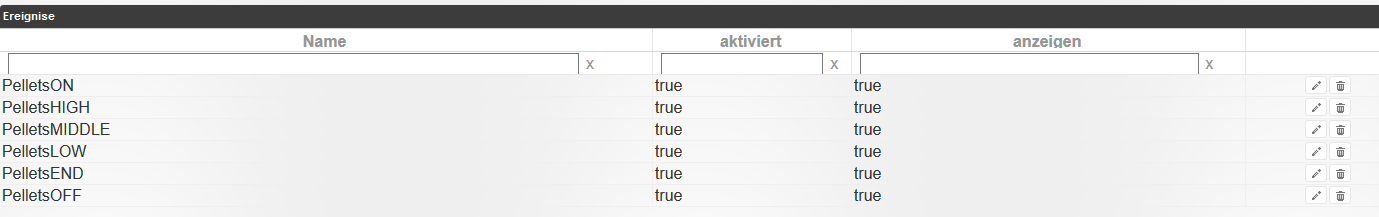
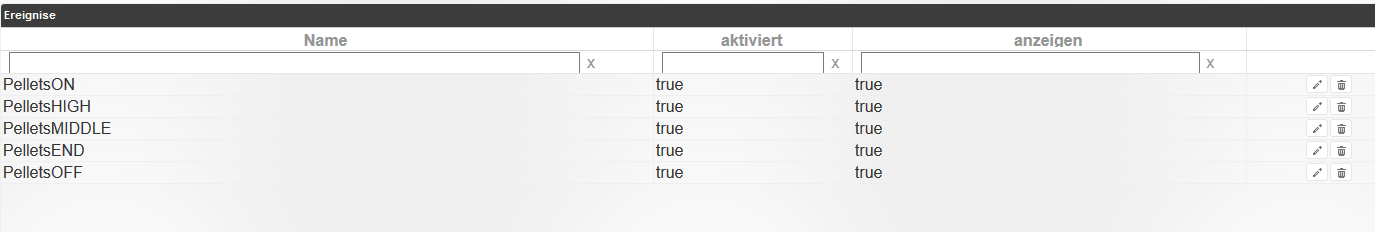
Doku: Fehler im Bild iCal2.PNG behoben, dort war ein falsche Event PelletsLOW, Bild neu erstellt Doku: Fehlerhaften Header korrigiert, bei Script ergänzt wegen Anpassung der Konstanten Doku: Inhaltsverzeichnis in Readme integriert js:  Fehler in der Default Schaltzeittabelle korrigiert

diff --git a/PelletsOfenSteuern.js b/PelletsOfenSteuern.js
@@ -241,7 +241,7 @@ function pelletsTimerInit() {
             {   "name":   "Montag",
                 "number": 1,
                 "point": [  {"h":  0, m:  0, "mode": PELLETS_TEMP_OFF      },
-                            {"h":  0, m: 45, "mode": PELLETS_TEMP_HIGH     },
+                            {"h":  5, m: 45, "mode": PELLETS_TEMP_HIGH     },
                             {"h":  9, m: 30, "mode": PELLETS_TEMP_MIDDLE   },
                             {"h": 13, m:  0, "mode": PELLETS_TEMP_HIGH     },
                             {"h": 21, m: 30, "mode": PELLETS_TEMP_END      },

diff --git a/README.md b/README.md
@@ -21,9 +21,28 @@ So sehen die Verlaeufe aus bei Automatik Betrieb
 
 ------
 
-**Inhaltsverzeichnis**
+##Inhaltsverzeichnis
 
-[TOC]
+- [Benötigte Hard/Software](#Benötigte Hard/Software)
+- [Homematic einrichten](#Homematic einrichten)
+  - [Systemvariable einrichten](#Systemvariable einrichten)
+    - [PelletsTempLow](#Systemvariable PelletsTempLow einrichten)
+    - [PelletsTempHigh](#Systemvariable PelletsTempHigh einrichten)
+    - [OfenstatusPellets](#Systemvariable OfenstatusPellets einrichten)
+    - [Pelletsheizung](#Systemvariable Pelletsheizung einrichten)
+  - [Sensor fuer Raumtemperatur](#Sensor fuer Raumtemperatur)
+  - [Aktor zur Ofensteuerung](#Aktor zur Ofensteuerung)
+  - [Programme auf der Homematic](#Programme auf der Homematic)
+    - [Pelletsofen Safety Shutdown](#Pelletsofen Safety Shutdown)
+    - [Pelletsofen nach Heizstatus steuern](#Pelletsofen nach Heizstatus steuern)
+    - [Pelletsofen nach Raumtemperatur steuern](#Pelletsofen nach Raumtemperatur steuern)
+    - [Pelletsofen CoolDown starten](#Pelletsofen CoolDown starten)
+    - [Pelletsofen Fernbedienung](#Pelletsofen Fernbedienung (optional))
+- [IO-Broker einrichten](#IO-Broker einrichten)
+  - [ICAL Adapter einrichten](#ICAL Adapter einrichten)
+  - [Script installieren und anpassen](#Script installieren und anpassen)
+  - [Hinweise zum Script](#Hinweise zum Script)
+- [History](#History)
 
 ------
 
@@ -176,6 +195,7 @@ Als letzen Schritt den JavaScript Adapter installieren, falls noch nicht install
 - Pruefe zuerst, ob IO-Broker die States PelletsTempHigh und PelletsTempLow schon angelegt hat, falls nicht, starte die Homematic-Adapter neu, damit die States beim ersten Start vorhanden sind, sonst hagelts Fehler im Log
 - Fuege das Script `PelletsOfenSteuern.js` im javascript Adapter per Copy&Paste ein, bei Bedarf passe die entsprechenden Konstanten im script an
 - Script starten, fertig
+
 ### Hinweise zum Script
 
 Ist das Script gestartet, wird ein `string State Heizung.Wohnzimmer.Pelletsofen.pelletsTimer` angelegt, dort wird die aktuelle Schaltzeittabelle mit den Temperatur-Modes als JSON abgelegt und von dort aus wird sie beim Start des Java Script in das entsprechende TimerObjekt kopiert, so dass die Tabelle auch nach einem Neustart des Systems vorhanden ist.
@@ -186,8 +206,14 @@ In einer spaeteren Version soll per VIS die Schaltzeittabelle eingestellt werden
 
 # History
 
-**Version 0.0.1**
+**0.0.2 (2017-02-13)**
+- (jogicom)
+  - Doku berichtigt (fehlerhaftes Bild Ereignisse iCal)
+  - Doku Inhaltsverzeichnis integriert
+  - Default Schaltzeittabelle korrigiert
 
-Initial Release, getestet auf CCU2
+
+**0.0.1 (2017-02-10)**
+- (jogicom) Initial Release, getestet auf CCU2
 
 ------
